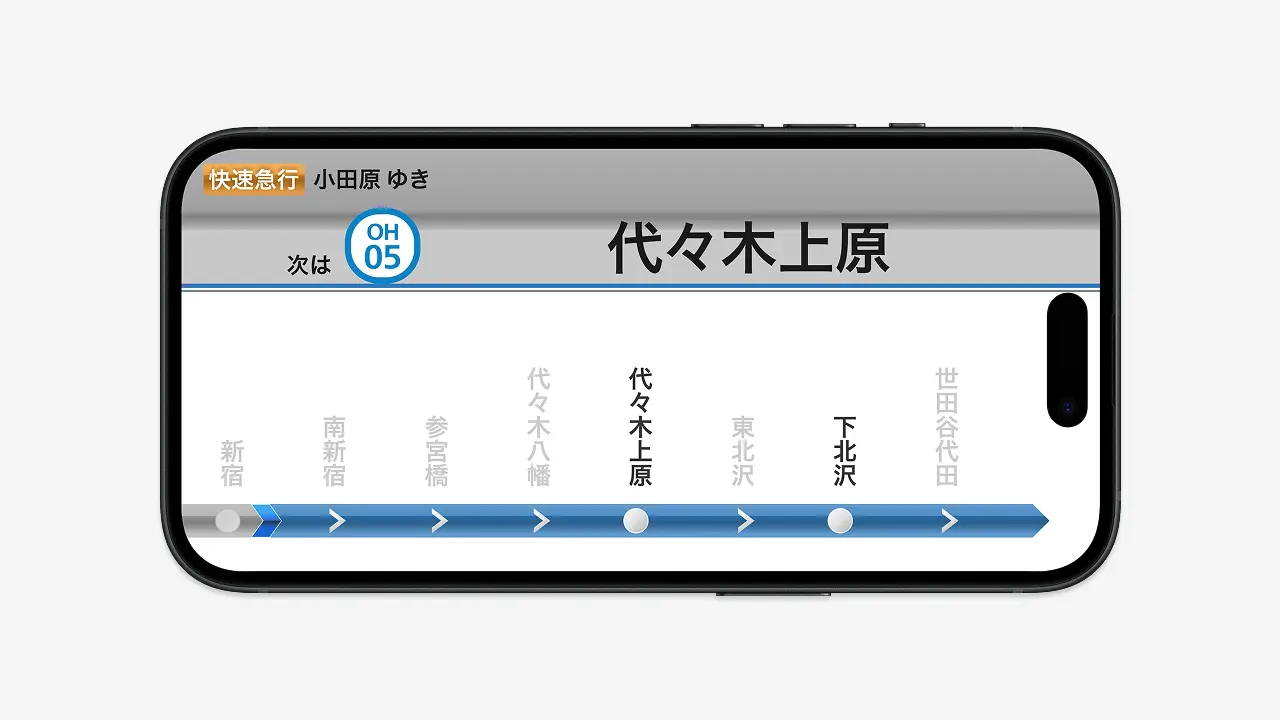
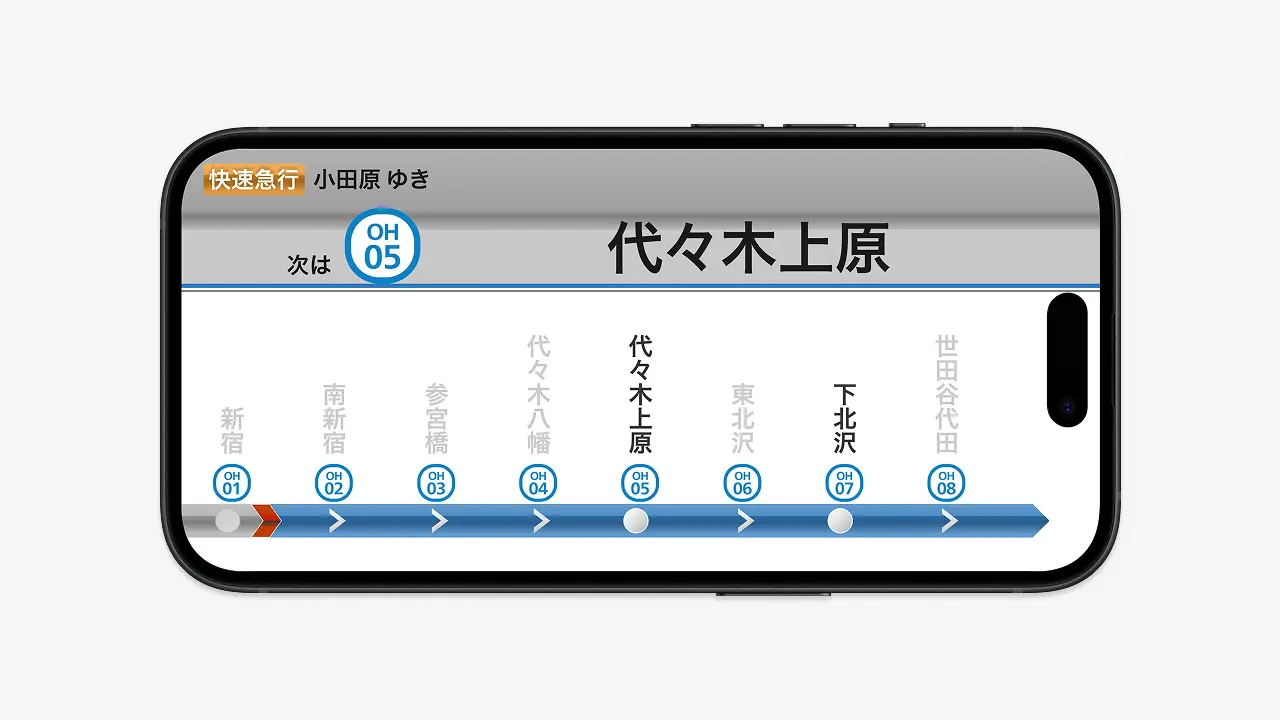
小田急テーマのLineBoardにナンバリングアイコンを追加 (#5703)
* 小田急テーマのLineBoardにナンバリングアイコンを追加

* nameCommonStyleのbaseスタイル保持と描画可能なナンバリング判定の厳密化

---------

diff --git a/src/components/LineBoardEast.tsx b/src/components/LineBoardEast.tsx
@@ -1,7 +1,7 @@
 import { LinearGradient } from 'expo-linear-gradient';
 import { useAtomValue } from 'jotai';
 import React, { useCallback, useMemo, useState } from 'react';
-import { useWindowDimensions, View } from 'react-native';
+import { StyleSheet, useWindowDimensions, View } from 'react-native';
 import type { Line, Station } from '~/@types/graphql';
 import {
   useCurrentLine,
@@ -31,6 +31,44 @@ import {
   STATION_NAME_CONTAINER_BOTTOM,
   commonLineBoardStyles as styles,
 } from './LineBoard/shared/styles/commonStyles';
+import NumberingIcon from './NumberingIcon';
+
+const localStyles = StyleSheet.create({
+  numberingIconContainer: {
+    position: 'absolute',
+    width: isTablet ? 96 : 64,
+    height: isTablet ? 96 : 64,
+    bottom: isTablet ? -22 : 52,
+    left: isTablet ? -24 : -16,
+    transform: [{ scale: 0.5 }],
+    justifyContent: 'center',
+    alignItems: 'center',
+    overflow: 'visible',
+  },
+});
+
+const NumberingIconView: React.FC<{ station: Station }> = ({ station }) => {
+  const numberingObj = useMemo(
+    () => station.stationNumbers?.[0],
+    [station.stationNumbers]
+  );
+
+  if (!numberingObj?.lineSymbolShape || !numberingObj?.stationNumber) {
+    return null;
+  }
+
+  return (
+    <View style={localStyles.numberingIconContainer}>
+      <NumberingIcon
+        shape={numberingObj.lineSymbolShape}
+        lineColor={numberingObj.lineSymbolColor || '#000'}
+        stationNumber={numberingObj.stationNumber}
+        threeLetterCode={station.threeLetterCode}
+        transformOrigin="center"
+      />
+    </View>
+  );
+};
 
 type Props = {
   lineColors: (string | null | undefined)[];
@@ -273,6 +311,24 @@ const StationNameCell: React.FC<StationNameCellProps> = ({
 
   const dim = useWindowDimensions();
 
+  const hasDrawableNumbering = useMemo(
+    () =>
+      station.stationNumbers?.some(
+        (sn) => sn?.lineSymbolShape && sn?.stationNumber
+      ) ?? false,
+    [station.stationNumbers]
+  );
+
+  const nameCommonStyle = useMemo(() => {
+    if (!isOdakyu || !hasDrawableNumbering) {
+      return styles.nameCommon;
+    }
+    return {
+      ...styles.nameCommon,
+      marginBottom: isTablet ? 45 : 95,
+    };
+  }, [isOdakyu, hasDrawableNumbering]);
+
   return (
     <>
       <View
@@ -285,7 +341,7 @@ const StationNameCell: React.FC<StationNameCellProps> = ({
       >
         <View
           style={[
-            styles.nameCommon,
+            nameCommonStyle,
             isEn || includesLongStationName
               ? styles.longOrEnName
               : styles.jaName,
@@ -298,6 +354,7 @@ const StationNameCell: React.FC<StationNameCellProps> = ({
             passed={getIsPass(station) || shouldGrayscale}
           />
         </View>
+        {isOdakyu ? <NumberingIconView station={station} /> : null}
         {renderBarGradients({
           barLeft,
           barWidth,
